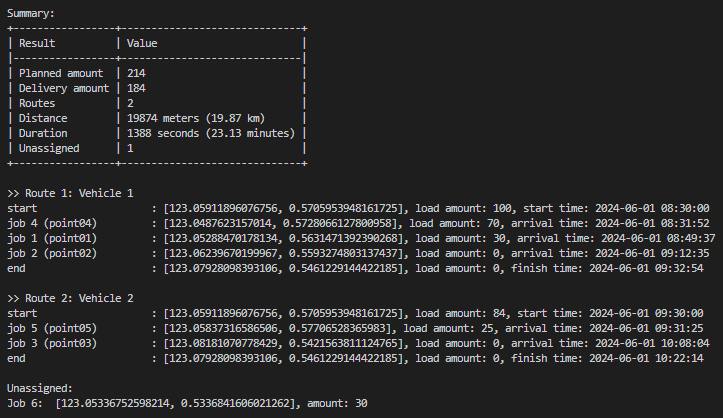
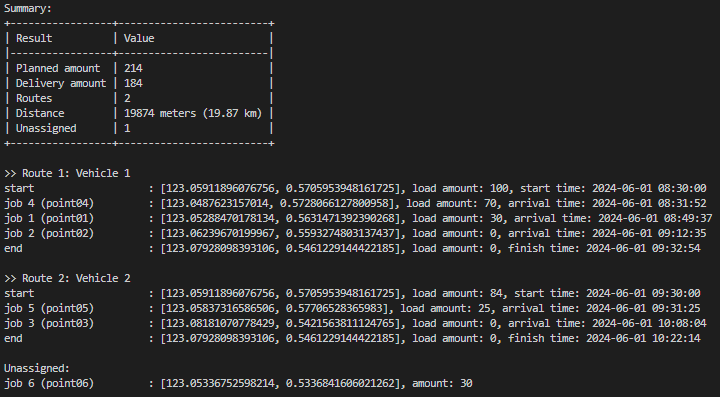
update readme and python.py

diff --git a/project.py b/project.py
@@ -269,10 +269,6 @@ def get_summary(result: dict, source: list[dict]) -> None:
             "Distance",
             f'{result["summary"]["distance"]} meters ({result["summary"]["distance"]/1000:.2f} km)',
         ],
-        [
-            "Duration",
-            f'{result["summary"]["duration"]} seconds ({result["summary"]["duration"]/60:.2f} minutes)',
-        ],
         ["Unassigned", result["summary"]["unassigned"]],
     ]
     print(

diff --git a/README.md b/README.md
@@ -93,7 +93,6 @@ Here is the solution summary:
 * Delivery amount: total delivery for all routes based on the given parameters
 * Routes: number of routes in the solution
 * Distance: total distance for all routes
-* Duration: total travel time for all routes
 * Unassigned: number of tasks (point/location) that could not be served
 
 Generated route map:
